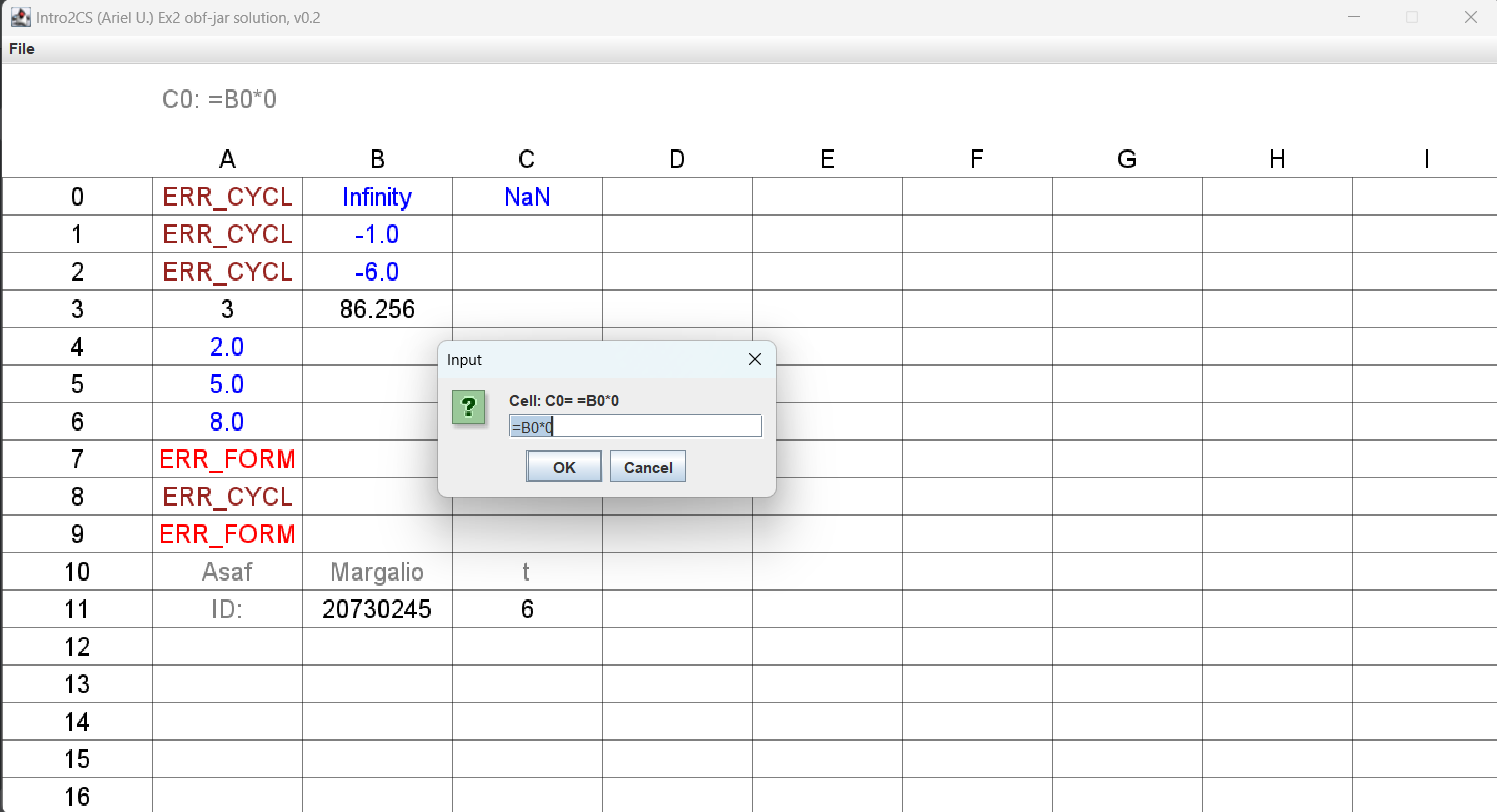
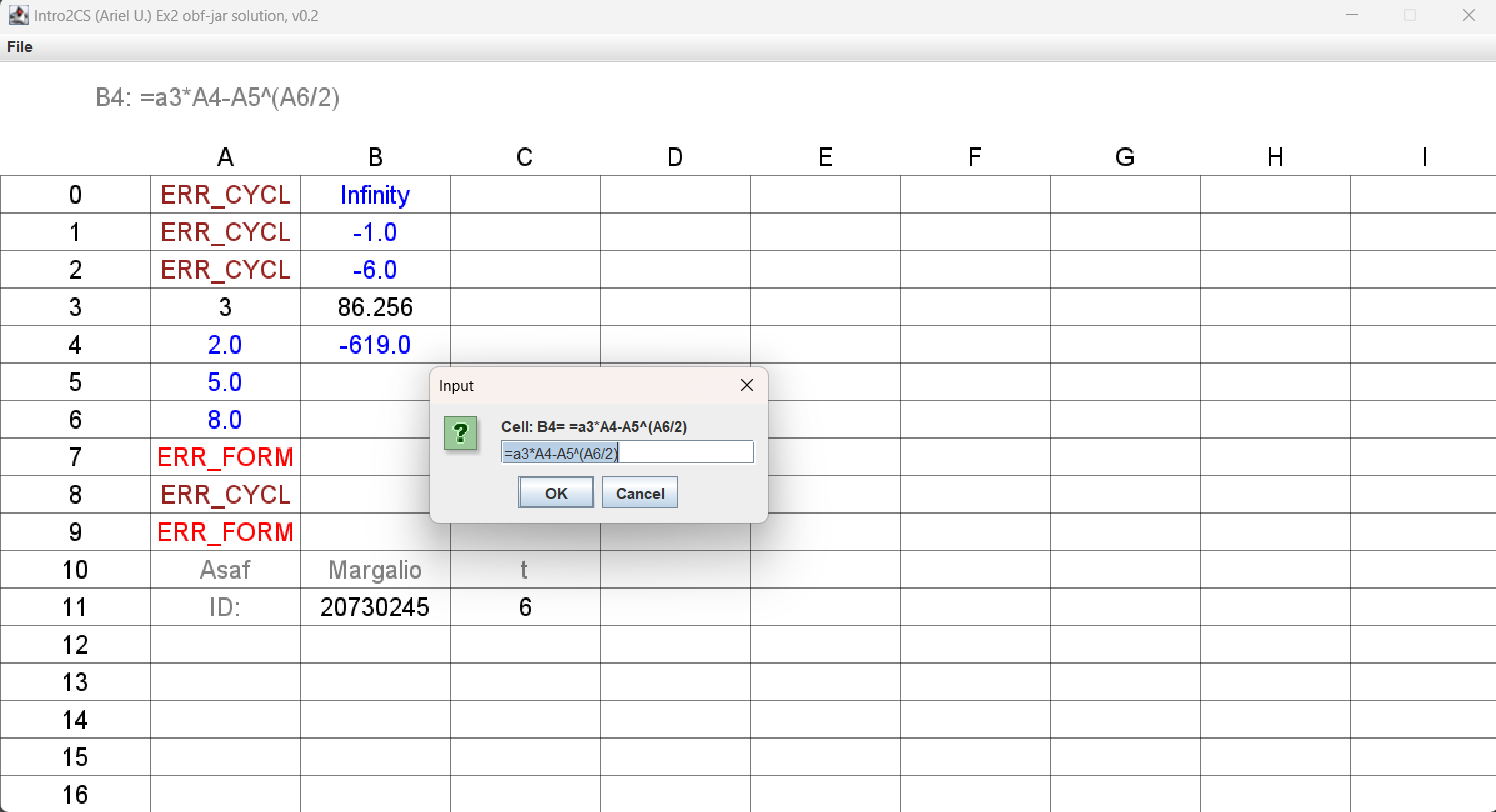
Add Power

diff --git a/src/SCell.java b/src/SCell.java
@@ -70,7 +70,7 @@ public class SCell implements Cell {
     }
 
     /**
-     * +|- = 1, *|/ =2
+     * +|- = 1, *|/ =2 , power=3
      * @param c
      * @return value of the operator
      */
@@ -81,7 +81,9 @@ public class SCell implements Cell {
             return 1;
         if (c == '*' | c == '/')
             return 2;
-        return 3;
+        if(c=='^')
+            return 3;
+        return 4;
     }
 
     /**
@@ -99,6 +101,8 @@ public class SCell implements Cell {
             return l + r;
         if (op == '-')
             return l - r;
+        if (op=='^')
+            return Math.pow(l,r);
         return l / r;
     }
 
@@ -110,7 +114,7 @@ public class SCell implements Cell {
      */
 
     public static int indOfMainOp(String text) {
-        int count = 0, index = -1, lowOP = 3;
+        int count = 0, index = -1, lowOP = 4;
         for (int i = 0; i < text.length(); i++) {
             char x = text.charAt(i);
             if (x == '(')
@@ -152,7 +156,7 @@ public class SCell implements Cell {
             return false;
         for (int i = 0; i < text.length(); i++) {
             char x = text.charAt(i);
-            if (x != '*' && x != '/' && x != '+' && x != '-' && x != '(' && x != ')' && x != '.' && !Character.isDigit(x))
+            if (x!='^' && x != '*' && x != '/' && x != '+' && x != '-' && x != '(' && x != ')' && x != '.' && !Character.isDigit(x))
                     return false;
 
         }

diff --git a/src/Ex2Test.java b/src/Ex2Test.java
@@ -27,6 +27,8 @@ public class Ex2Test {
         assertTrue(Double.isInfinite(a));
         a= SCell.computeForm("=6-(-6)");
         assertEquals(a,12);
+        a=SCell.computeForm("=(1-2)^3+5^2/4");
+        assertEquals(a,5.25);
     }
 
     @Test
@@ -60,6 +62,13 @@ public class Ex2Test {
         assertEquals(sheet.value(0,1), Ex2Utils.ERR_CYCLE);
         sheet.set(0,0,"=Aa1");
         Assertions.assertEquals(sheet.value(0,0), Ex2Utils.ERR_FORM);
+        sheet.set(0,1,"=2-4*3+15/3-(-7)");
+        sheet.set(0,0,"=A1^2");
+        sheet.set(1,1,"=A1^a0/1.6");
+        Assertions.assertEquals(sheet.value(1,1),"10.0");
+        sheet.set(0,0,"=1+3*4-9^(2-1.5)");
+        sheet.set(0,1,"=A0^(2-1.5*2)");
+        Assertions.assertEquals(sheet.value(0,1),"0.1");
     }
 
     @Test
